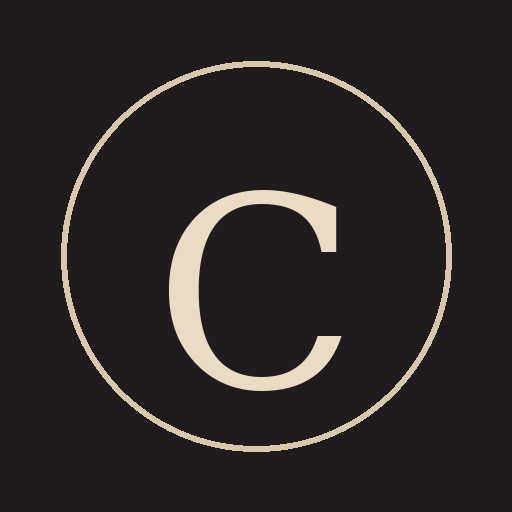
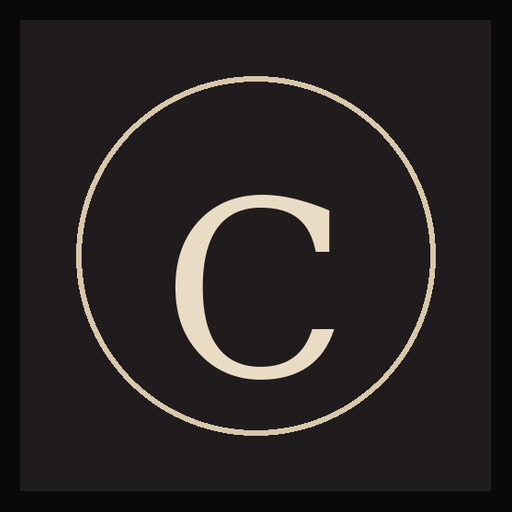
Add files via upload

Changed region(s): [[0.0938, 0.0938, 0.9062, 0.9062], [0.3125, 0.4375, 0.6875, 0.7812], [0.375, 0.3438, 0.6562, 0.5]]

diff --git a/index.html b/index.html
@@ -21,7 +21,20 @@ button,input,textarea{font:inherit}.wrap{width:min(100%,620px);margin:auto;min-h
 .intro{position:fixed;inset:0;background:#060606;z-index:100;display:grid;place-items:center;text-align:center;transition:.9s}.intro.done{opacity:0;pointer-events:none}.intro img{width:min(74vw,420px);opacity:0;animation:reveal 1.6s .25s forwards}.intro p{font-family:"Cormorant Garamond",serif;color:var(--gold);font-size:19px;letter-spacing:.06em;opacity:0;animation:reveal 1.2s 1.25s forwards}@keyframes reveal{to{opacity:1}}
 .hero{min-height:calc(100vh - 74px);display:grid;align-items:center}.frame{position:relative;border:1px solid var(--line);border-radius:34px;overflow:hidden;padding:56px 26px 35px;text-align:center;background:linear-gradient(145deg,#171514,#090909 67%);box-shadow:var(--shadow)}
 .frame:before{content:"";position:absolute;inset:0;opacity:.28;background-image:radial-gradient(circle at 20% 20%,transparent 0 18px,rgba(215,196,163,.25) 19px 20px,transparent 21px),linear-gradient(45deg,transparent 48%,rgba(215,196,163,.12) 49% 51%,transparent 52%);background-size:130px 130px,92px 92px}
-.hero-inner{position:relative}.hero-logo{width:min(100%,430px)}.tag{font-family:"Cormorant Garamond",serif;font-size:27px;line-height:1.12;margin:28px 0 12px;color:var(--gold2)}.copy{color:var(--muted);line-height:1.8;font-size:13px;max-width:390px;margin:0 auto 25px}
+.hero-inner{position:relative}
+.hero-logo{
+  display:block;
+  width:min(calc(100% - 30px),430px);
+  height:auto;
+  margin:0 auto;
+  object-fit:contain;
+  overflow:visible;
+  transform:translateZ(0);
+  filter:
+    drop-shadow(0 2px 0 rgba(90,68,42,.95))
+    drop-shadow(0 5px 4px rgba(0,0,0,.75))
+    drop-shadow(0 0 18px rgba(241,227,202,.12));
+}.tag{font-family:"Cormorant Garamond",serif;font-size:27px;line-height:1.12;margin:28px 0 12px;color:var(--gold2)}.copy{color:var(--muted);line-height:1.8;font-size:13px;max-width:390px;margin:0 auto 25px}
 .box{width:220px;height:130px;margin:25px auto 30px;perspective:700px;position:relative}.base,.lid{position:absolute;left:0;width:100%;border:1px solid var(--line);background:linear-gradient(145deg,#171514,#090909);box-shadow:0 22px 35px rgba(0,0,0,.45)}.base{bottom:0;height:92px;border-radius:10px 10px 20px 20px}.lid{top:20px;height:42px;border-radius:18px 18px 7px 7px;transform-origin:top;transition:1s}.box.open .lid{transform:rotateX(105deg) translateY(-7px)}.box-mark{position:absolute;inset:0;display:grid;place-items:center;font-family:"Cormorant Garamond";font-size:25px;color:var(--gold2)}
 .btn{width:100%;border:0;border-radius:16px;padding:16px 18px;font-weight:800;display:flex;justify-content:center;align-items:center;gap:8px}.primary{background:linear-gradient(135deg,var(--gold2),#b49a72);color:#17110c}.secondary{background:#111;color:var(--gold2);border:1px solid var(--line)}.stack{display:grid;gap:12px}.head{padding:32px 2px 18px}.eyebrow{font-size:9px;color:var(--gold);letter-spacing:.2em;text-transform:uppercase;margin-bottom:9px}h1,h2,h3{font-family:"Cormorant Garamond",serif}h2{font-size:38px;margin:0 0 7px;color:var(--gold2)}.lead{color:var(--muted);font-size:13px;line-height:1.7;margin:0}
 .card{border:1px solid var(--line);border-radius:24px;background:linear-gradient(145deg,#171514,#0c0b0b);padding:20px;box-shadow:var(--shadow)}
@@ -35,6 +48,9 @@ label{display:block;font-size:10px;color:var(--gold);letter-spacing:.12em;text-t
 .ai{border:1px solid rgba(241,227,202,.35);background:linear-gradient(145deg,rgba(215,196,163,.11),#0c0b0b);border-radius:24px;padding:20px}.ai h3{font-size:31px;margin:13px 0 7px;color:var(--gold2)}.ai p{color:var(--muted);font-size:13px;line-height:1.8}.chips{display:flex;flex-wrap:wrap;gap:7px}.chip{border:1px solid var(--line);border-radius:999px;padding:7px 9px;font-size:9px;color:var(--gold2)}
 .nav{display:grid;grid-template-columns:1fr 1fr;gap:10px;position:sticky;bottom:12px;margin-top:15px}.history{display:flex;justify-content:space-between;border-bottom:1px solid rgba(215,196,163,.12);padding:11px 0;font-size:12px}.modal{position:fixed;inset:0;background:rgba(0,0,0,.8);display:none;place-items:center;z-index:50;padding:18px}.modal.show{display:grid}.modal .card{width:min(100%,460px)}
 .metric-grid{display:grid;grid-template-columns:repeat(2,1fr);gap:9px}.metric{border:1px solid var(--line);border-radius:16px;padding:14px;background:#0d0d0d}.metric b{display:block;color:var(--gold2);font-size:20px}.metric span{font-size:8px;color:var(--muted);letter-spacing:.08em}.passport{display:grid;grid-template-columns:repeat(2,1fr);gap:9px}.stamp{border:1px dashed var(--line);border-radius:16px;padding:15px;text-align:center;opacity:.45}.stamp.on{opacity:1;background:rgba(215,196,163,.08);border-style:solid}.stamp i{font-style:normal;font-size:24px;display:block}.journey{position:relative;padding-left:18px}.journey:before{content:"";position:absolute;left:5px;top:5px;bottom:5px;width:1px;background:var(--line)}.journey-item{position:relative;padding:0 0 16px 14px}.journey-item:before{content:"";position:absolute;left:-17px;top:5px;width:8px;height:8px;border-radius:50%;background:var(--gold2);box-shadow:0 0 15px rgba(241,227,202,.4)}.journey-item b{color:var(--gold2);font-size:12px}.journey-item span{display:block;color:var(--muted);font-size:10px;margin-top:3px}.badge small{display:block;color:var(--muted);font-size:7px;margin-top:4px}.tier-bronze.on{box-shadow:inset 0 0 0 1px rgba(205,127,50,.25)}.tier-silver.on{box-shadow:inset 0 0 0 1px rgba(192,192,192,.25)}.tier-gold.on{box-shadow:inset 0 0 0 1px rgba(212,175,55,.3)}.tier-diamond.on{box-shadow:inset 0 0 0 1px rgba(185,242,255,.25)}.tier-legendary.on{box-shadow:0 0 25px rgba(241,227,202,.12)}
+@media(max-width:420px){
+  .hero-logo{width:calc(100% - 42px)}
+}
 </style>
 </head>
 <body>

diff --git a/sw.js b/sw.js
@@ -1,4 +1,4 @@
-const CACHE='crava-v7';
+const CACHE='crava-v9-visual-fix';
 const ASSETS=['./','./index.html','./config.js','./crava-logo-clean.png','./icon-192.png','./icon-512.png','./manifest.webmanifest'];
 self.addEventListener('install',e=>e.waitUntil(caches.open(CACHE).then(c=>c.addAll(ASSETS))));
 self.addEventListener('activate',e=>e.waitUntil(caches.keys().then(keys=>Promise.all(keys.filter(k=>k!==CACHE).map(k=>caches.delete(k))))));